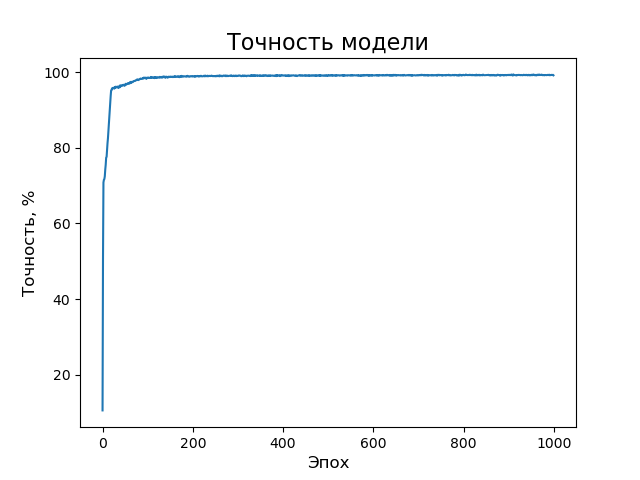
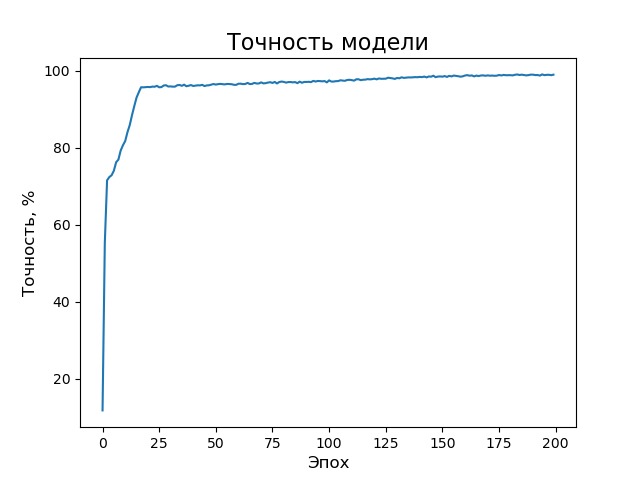
model_dff_train

diff --git a/dan/templates/index/metallurgy/model_dff/model_dff.js b/dan/templates/index/metallurgy/model_dff/model_dff.js
@@ -5,8 +5,7 @@ document.addEventListener("DOMContentLoaded", function(event) {
         form.append('epochs', epochs)
         DAN.modal.add('Подождите. Идёт обучение модели на протяжении <b>' + epochs + '</b> эпох.', 400)
 		DAN.ajax('/metallurgy/model_dff_train', form, function(data){
-			DAN.$('dataset_out').innerHTML = data.content
-			console.log('-----------------')
+			document.location.href = '/metallurgy/model_dff'
 		})
 	}
 });

diff --git a/dan/index/metallurgy/model_dff_train.py b/dan/index/metallurgy/model_dff_train.py
@@ -1,0 +1,170 @@
+import os.path
+import pandas as pd
+import numpy as np
+import tensorflow as tf
+from tensorflow import keras
+import matplotlib.pyplot as plt
+from sklearn.model_selection import train_test_split
+from sklearn import preprocessing
+import json
+import sys
+sys.path.append('index/metallurgy/classes')
+from index.metallurgy.classes.Model import Model
+from index.metallurgy.classes.MetallurgyData import MetallurgyData
+
+
+def model_dff_train(SITE):
+    print('PATH -> index/metallurgy/model_dff_train.py')
+
+    num_epochs = int(SITE.post['epochs'])
+
+    MODEL = Model(SITE)
+    MD = MetallurgyData(SITE)
+    data = MD.getAll()
+
+    # Сохранённая модель - для бустрого запуска без обучения на 1000 эпох
+    model_file = 'index/metallurgy/model_dff.h5'
+
+    # ------- ПОЛНОСВЯЗНАЯ НЕЙРОННАЯ СЕТЬ -------
+    df = pd.DataFrame(data)
+    # df.to_csv('metallurgy_dataset.csv', sep=',', encoding='utf-8')
+
+    data = df.iloc[:,1:9]
+    target = df.iloc[:,10:11]
+
+    X_train, X_test, Y_train, Y_test = train_test_split(data, target, random_state=42, test_size=0.2)
+
+    min_max_scaler = preprocessing.MinMaxScaler()
+    X_train_n = min_max_scaler.fit_transform(X_train)
+    X_test_n = min_max_scaler.fit_transform(X_test)
+
+    x_train_n = np.array(X_train_n, dtype = 'float32')
+    x_test_n = np.array(X_test_n, dtype = 'float32')
+    y_train = np.array(Y_train, dtype = 'float32')
+    y_test = np.array(Y_test, dtype = 'float32')
+
+    y_train_r = y_train.reshape(y_train.shape[0],)
+    y_test_r = y_test.reshape(y_test.shape[0],)
+
+
+    # СОЗДАЁМ МОДЕЛЬ
+    print('------- СОЗДАЁМ МОДЕЛЬ -------')
+    # Поскольку мало данных, мы будем использовать очень маленькую сеть с двумя скрытыми слоями, каждый с 64 нейронами
+    # Что бы избежать переобучения
+    # Скалярная регрессия (мы пытаемся предсказать одно непрерывное значение)
+    model = tf.keras.models.Sequential()
+    model.add(tf.keras.layers.Dense(64, activation='relu', input_shape=(x_train_n.shape[1],)))    
+    model.add(tf.keras.layers.Dense(64, activation='relu'))   
+    model.add(tf.keras.layers.Dense(1))
+
+    model.compile(optimizer='rmsprop', loss='mse', metrics=['mae', 'mape'])
+    print('Свойства модели')
+    print(model.summary())
+
+    # Обучаем модель
+    history = model.fit(x_train_n, y_train_r, epochs=num_epochs, batch_size=1)
+
+    # Сохраним всю модель в  HDF5 файл
+    model.save(model_file)
+
+    # Оцениваем модель
+    loss, mae, mape = model.evaluate(X_test_n, y_test_r)
+    print('LOSS, MAE, MAPE', loss, mae, mape)
+    accuracy = round(100 - mape, 2)
+    print('------- Точность -------', accuracy)
+
+    # Делаем предсказание
+    predicted = model.predict(x_test_n)
+    # print('PREDICT', predicted, y_test_r)
+    # ------- /
+
+
+    # ------- ГРАФИКИ -------
+    # Зависимость абсолютной ошибки от количества эпох
+    history_mae = history.history['mae']
+    fig, ax = plt.subplots()
+    ax.set_title('Cредняя абсолютная ошибка', fontsize=16)
+    ax.set_xlabel('Эпох', fontsize=12)
+    ax.set_ylabel('Абсолютная ошибка', fontsize=12)
+    ax.plot(history_mae)
+    fig.savefig('templates/index/metallurgy/model_dff/images/dff_history_mae.png')
+
+    # Зависимость точности от количества эпох
+    history_acc = 100 - np.array(history.history['mape'])
+    fig, ax = plt.subplots()
+    ax.set_title('Точность модели', fontsize=16)
+    ax.set_xlabel('Эпох', fontsize=12)
+    ax.set_ylabel('Точность, %', fontsize=12)
+    ax.plot(history_acc)
+    fig.savefig('templates/index/metallurgy/model_dff/images/dff_history_acc.png')
+
+    # Стандартное отклонение
+    fig, ax = plt.subplots()
+    ax.set_title('Стандартное отклонение', fontsize=16)
+    ax.set_xlabel('Предсказаные значения', fontsize=12)
+    ax.set_ylabel('Истинные значения', fontsize=12)
+    ax.scatter(predicted.tolist(), Y_test, color='#3a7afe')
+    ax.plot([0, 100], [0,100], color='#10ca93', label='Модель')
+    legend = ax.legend(loc='upper left', fontsize='12')
+    legend = ax.legend()
+    fig.savefig('templates/index/metallurgy/model_dff/images/dff_standard_deviations.png') 
+
+    # Предсказанные и истинные значения
+    # Задаем смещение равное половине ширины прямоугольника:
+    pred = predicted.reshape(1, 20)[0]
+    y_t = Y_test.to_numpy().reshape(1, 20)[0]
+    x = np.arange(20)
+    fig, ax = plt.subplots()
+    width = 0.3
+    ax.bar(x - width/2, pred, width, label='Предсказанные значения', color='#3a7afe')
+    ax.bar(x + width/2, y_t, width, label='Реальные значения', color='#ff7b06')
+    ax.set_title('Предсказанные и истинные значени', fontsize=16)
+    ax.set_xticks(x)
+    plt.xlabel('% износа', fontsize=12)
+    # ax.set_xticklabels(cat_par, fontsize='8')
+    ax.legend()
+    fig.savefig('templates/index/metallurgy/model_dff/images/dff_predicted.png')  # Сохраняем график 
+    # ------- /
+
+    # Гистограма износа test.
+    fig, ax = plt.subplots()
+    ax.hist(predicted, color='#3a7afe')
+    ax.set_title('Гистограмма износа гильз - тестовая выборка', fontdict={'fontsize':16, })
+    ax.set_xlabel('Износ')
+    ax.set_ylabel('Количество')
+    ax.figure.savefig('templates/index/metallurgy/model_dff/images/dff_hist_test.png')
+
+    # Гистограма износа target (all).
+    target_r = target.to_numpy().reshape(1, 100)[0]
+    fig, ax = plt.subplots()
+    ax.hist(target_r, bins=10, color='#3a7afe')
+    ax.set_title('Гистограмма износа гильз - полная выборка', fontdict={'fontsize':16})
+    ax.set_xlabel('Износ')
+    ax.set_ylabel('Количество')
+    ax.figure.savefig('templates/index/metallurgy/model_dff/images/dff_hist_target.png')
+
+    # График температуры стали.
+    steel_temperature = data['p_1'].to_numpy().reshape(1, 100)[0]
+    fig, ax = plt.subplots()
+    ax.plot(steel_temperature, color='#ff7b06')
+    ax.grid()
+    ax.set_xlim()
+    ax.set_xticks([])  # Не выводить ось х
+    ax.set_title('Температура стали', fontdict={'fontsize':16})
+    ax.set_ylabel('Температура')
+    ax.figure.savefig('templates/index/metallurgy/model_dff/images/dff_steel_temperature.png')
+
+    # График температуры воды.
+    water_temperature = data['p_2'].to_numpy().reshape(1, 100)[0]
+    fig, ax = plt.subplots()
+    ax.plot(water_temperature, color='#3a7afe')
+    ax.grid()
+    ax.set_xlim()
+    ax.set_xticks([])  # Не выводить ось х
+    ax.set_title('Температура воды', fontdict={'fontsize':16})
+    ax.set_ylabel('Температура')
+    ax.figure.savefig('templates/index/metallurgy/model_dff/images/dff_water_temperature.png')
+
+
+    answer = {'answer': 'success'}
+    return {'ajax': json.dumps(answer)}

diff --git a/dan/index/metallurgy/metallurgy.py b/dan/index/metallurgy/metallurgy.py
@@ -8,6 +8,7 @@ from dataset import dataset
 from dataset_generation import dataset_generation
 from model_lr import model_lr
 from model_dff import model_dff
+from model_dff_train import model_dff_train
 from input_data import input_data
 from alarm import alarm
 from help_page import help_page
@@ -24,6 +25,7 @@ def metallurgy(SITE):
         'dataset_generation': dataset_generation,
         'model_lr': model_lr,  # Линейная регрессия (lr)
         'model_dff': model_dff,  # Полносвязная сеть прямого распространения Deep Feed Forward (dff)
+        'model_dff_train': model_dff_train,  # Обучаем и сохраняем модель
         'input_data': input_data,
         'alarm': alarm,
         'help': help_page
